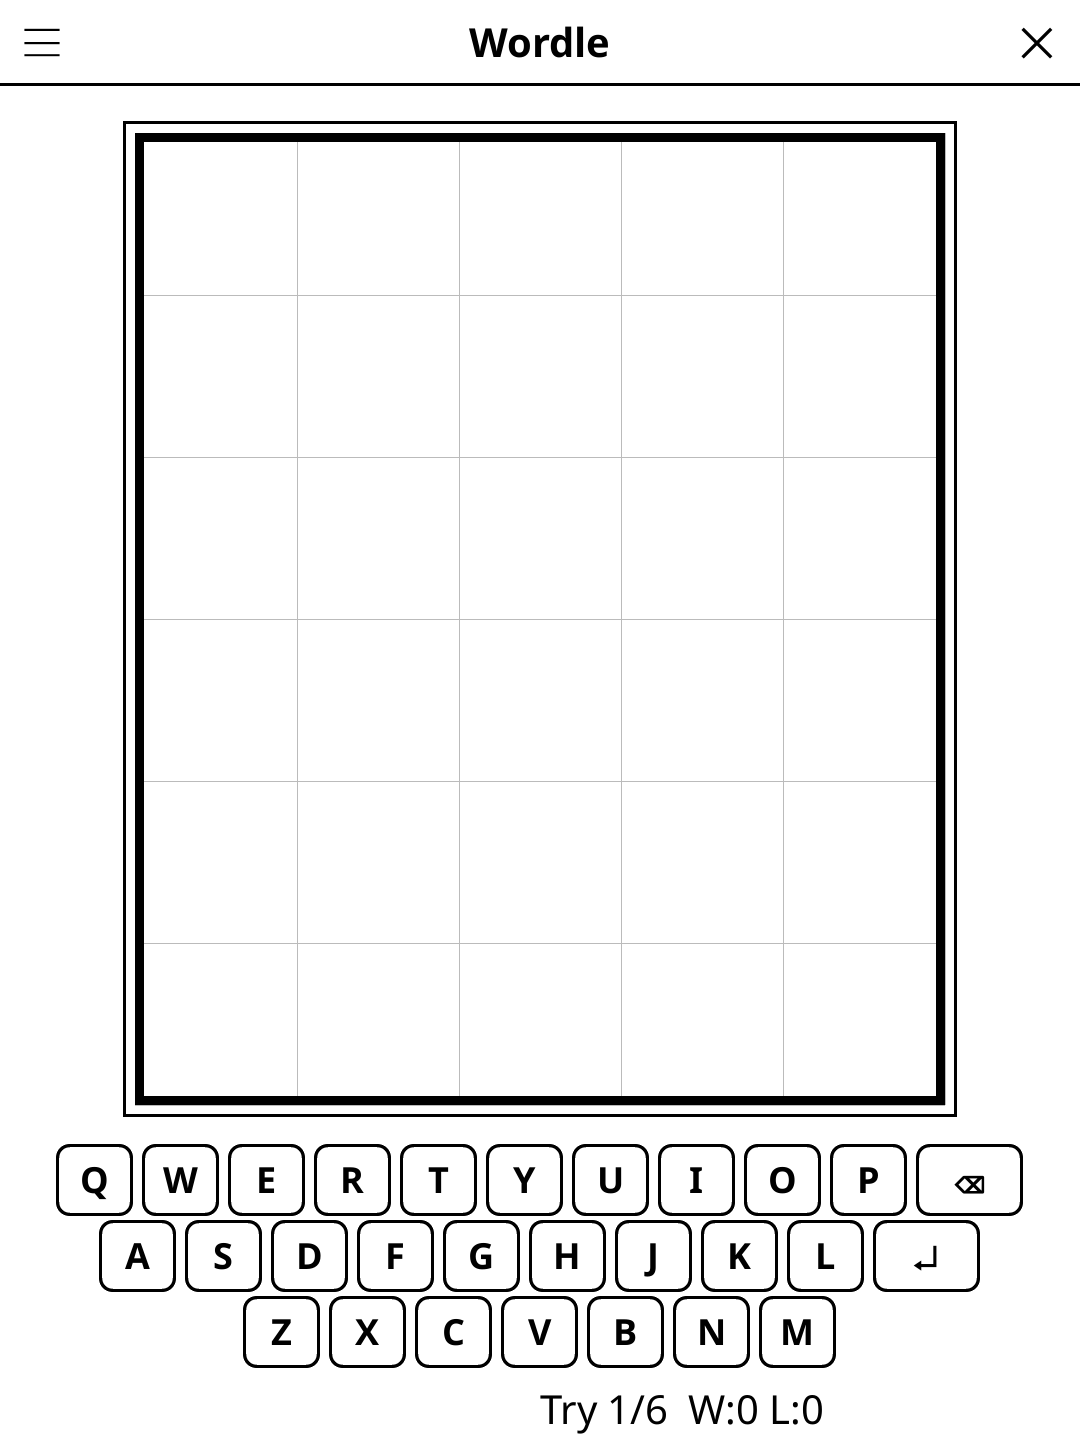
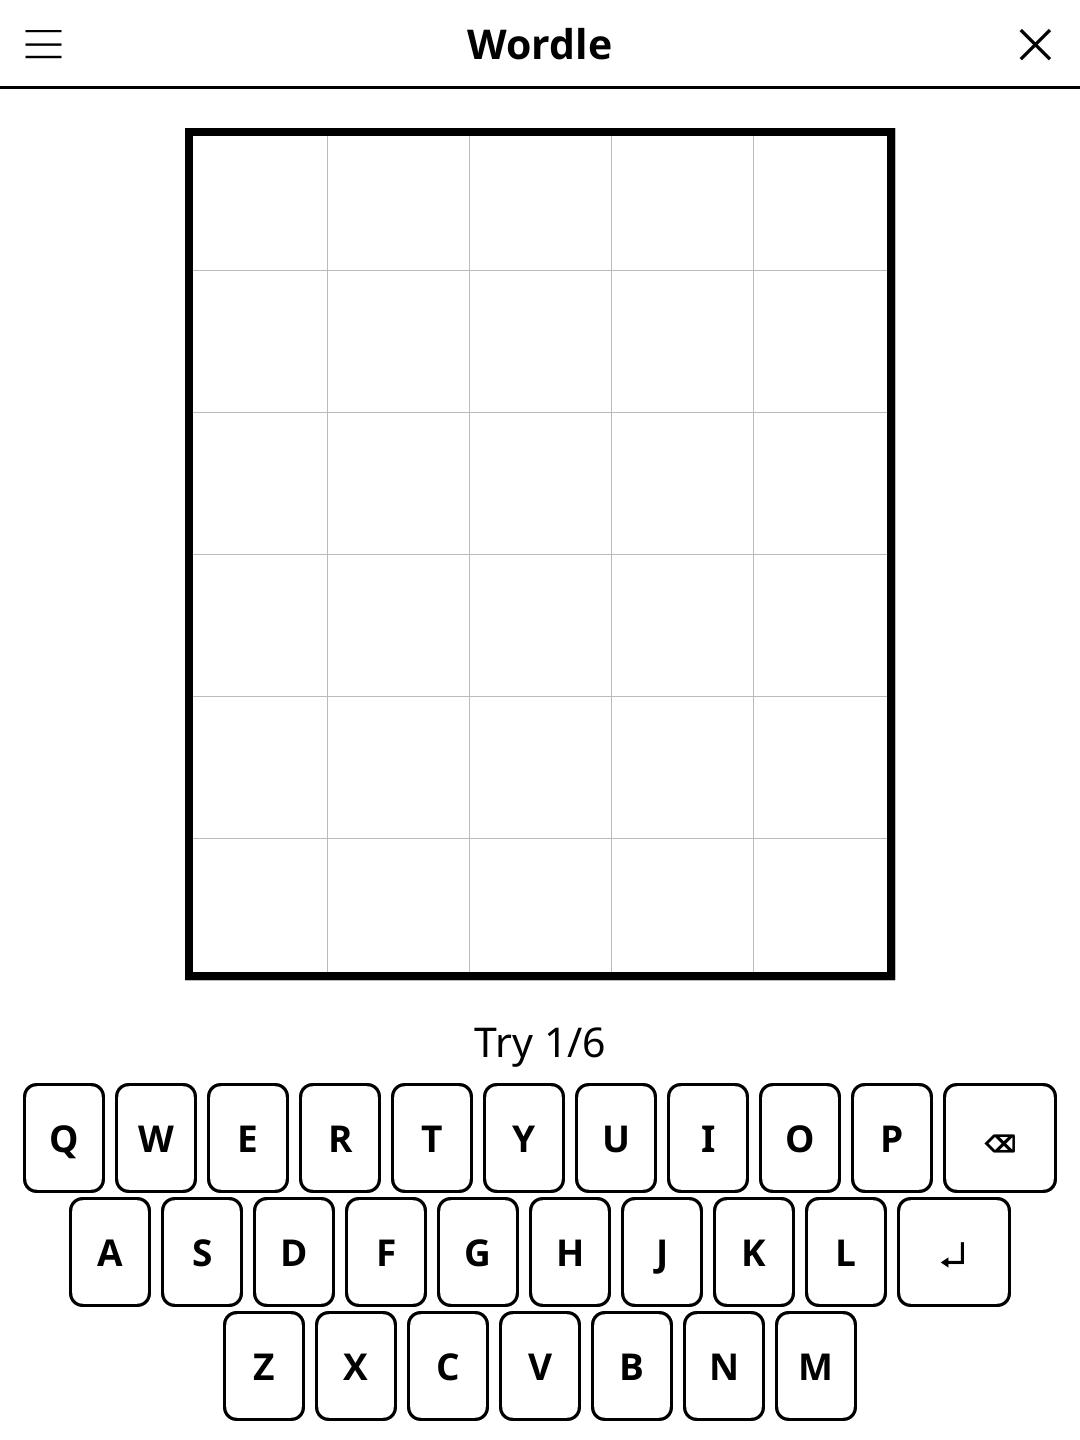
release: 1.3.0 -- redesigned screen, harmonised menu, New game at round end
Screen redesign (full-width action bar, unified pad, status line, larger
board), harmonised title-bar menu, and a "New game" button once the round
is over. See CHANGELOG.md.

diff --git a/CHANGELOG.md b/CHANGELOG.md
@@ -2,6 +2,26 @@
 
 All notable changes to this project will be documented in this file.
 
+## [1.3.0] - 2026-10-30
+
+### Changed
+- Redesigned play screen: the grid fills the room the keyboard leaves, and
+  the keys are finger-sized.
+- The keyboard follows KOReader's language (AZERTY in French, QWERTZ in
+  German) instead of the word list's language.
+- Key shading is one step lighter than the tiles, so the black labels on
+  correct and present letters stay readable.
+- The status line is shorter while playing ("Try 3/6"); the wins and losses
+  show once the round is over ("The word was CRANE. · Wins: 4 · Losses: 1").
+  It wraps in landscape instead of being cut off.
+- The title-bar menu shows "Language: …" (was the bare "EN" / "FR").
+- Once the round is won or lost, "New game" appears under the keyboard, so
+  the next round no longer needs the menu.
+
+### Fixed
+- Letters were sized from the tile and then scaled again for the screen's
+  DPI, so they could overflow their tiles; they are now fitted and centred.
+
 ## [1.2.2] - 2026-10-07
 
 ### Fixed
